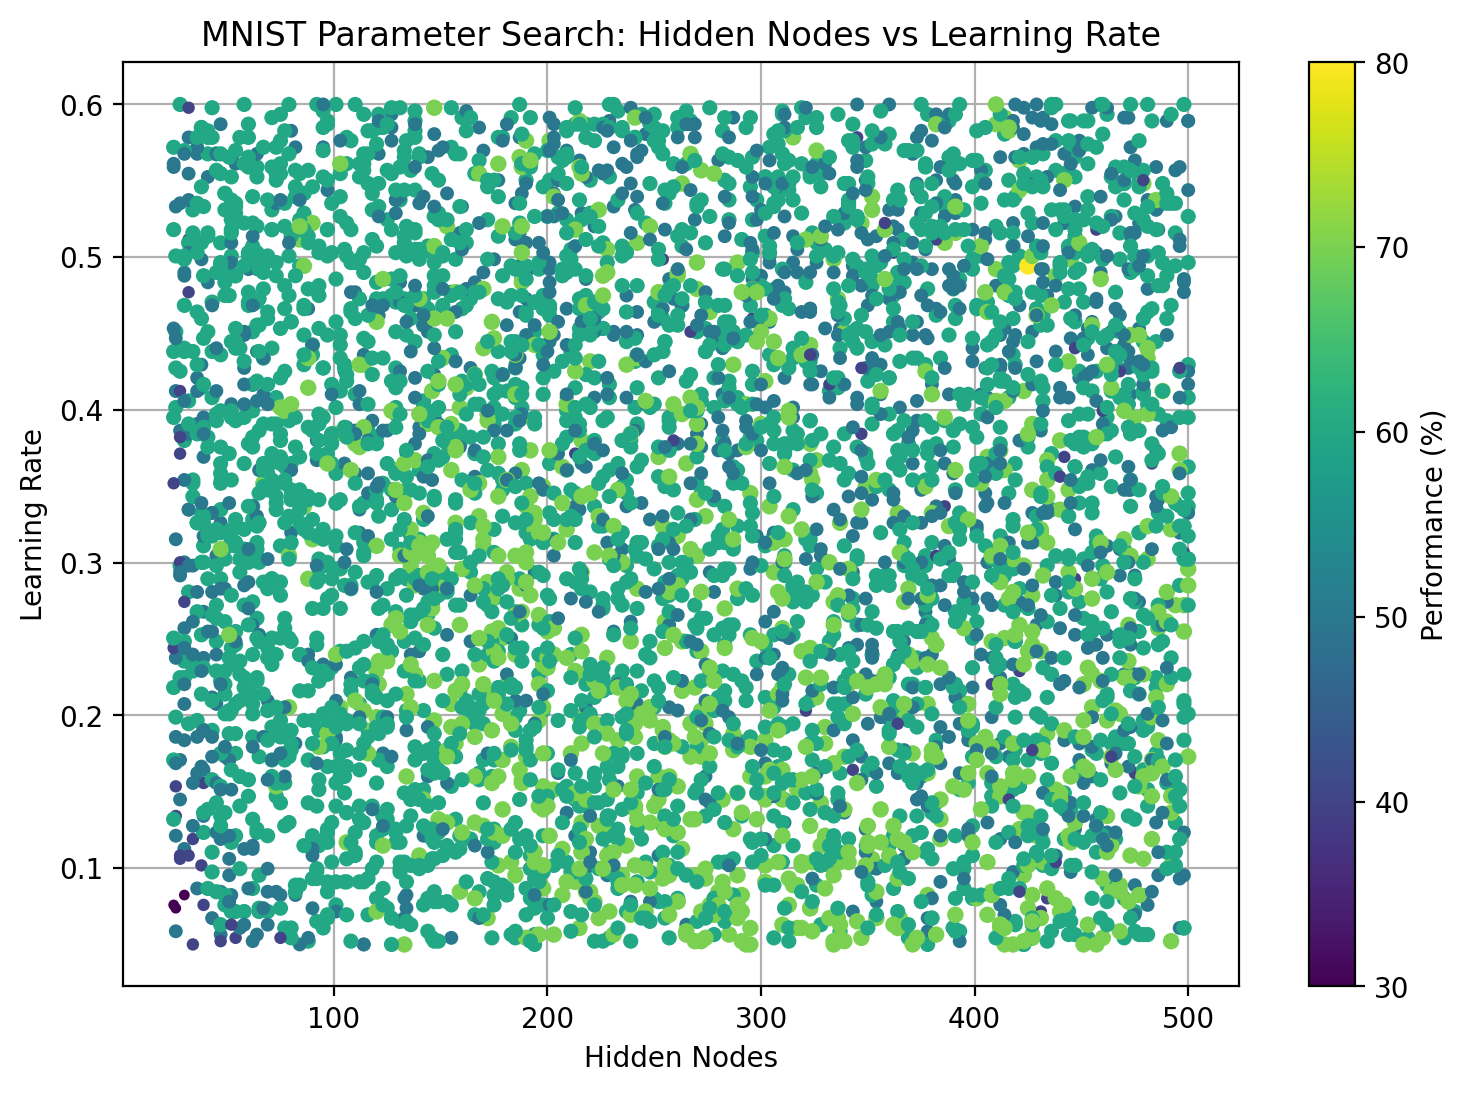
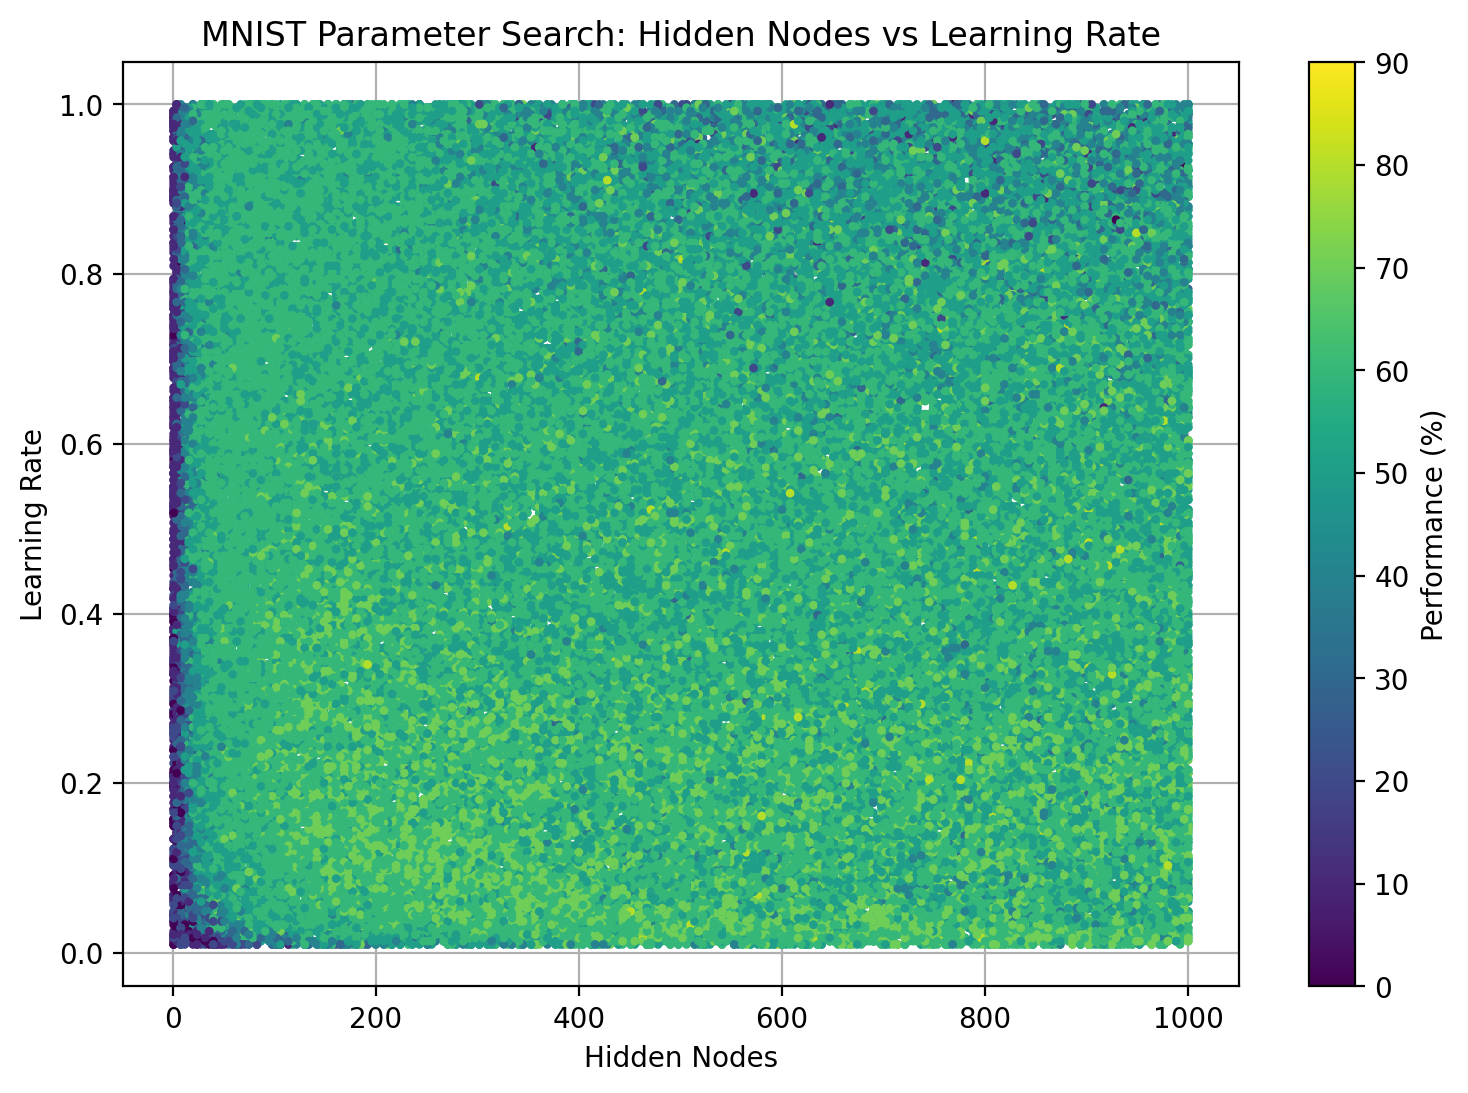
added new searches

diff --git a/cwa/src/main.py b/cwa/src/main.py
@@ -5,13 +5,13 @@ import os
 def seek_optimal_weights():
     import matplotlib.pyplot as plt
 
-    hidden_nodes_min = 25 
-    hidden_nodes_max = 500
+    hidden_nodes_min = 1
+    hidden_nodes_max = 1000
 
-    learning_rate_min = 0.05
-    learning_rate_max = 0.6
+    learning_rate_min = 0.01
+    learning_rate_max = 1.0
 
-    num_attempts = 5000
+    num_attempts = 100000
 
     input_nodes = 784
     output_nodes = 10
@@ -52,7 +52,7 @@ def seek_optimal_weights():
 
     plt.figure(figsize=(9, 6))
     # color = performance, marker size scaled by performance
-    scatter = plt.scatter(hs, lrs, c=perfs, cmap='viridis', s=[0.5 * p for p in perfs], edgecolors='none', zorder=2)
+    scatter = plt.scatter(hs, lrs, c=perfs, cmap='viridis', s=[10], edgecolors='none', zorder=2)
     plt.colorbar(scatter, label='Performance (%)')
     plt.xlabel('Hidden Nodes')
     plt.ylabel('Learning Rate')

diff --git a/README.md b/README.md
@@ -1,4 +1,4 @@
 # EE40098-Labs
 EE40098-Labs
 
-Place the MNIST dataset under cwa/MNIST
+Place the MNIST dataset under cwa/MNIST (both MNIST and fasion MNIST)
